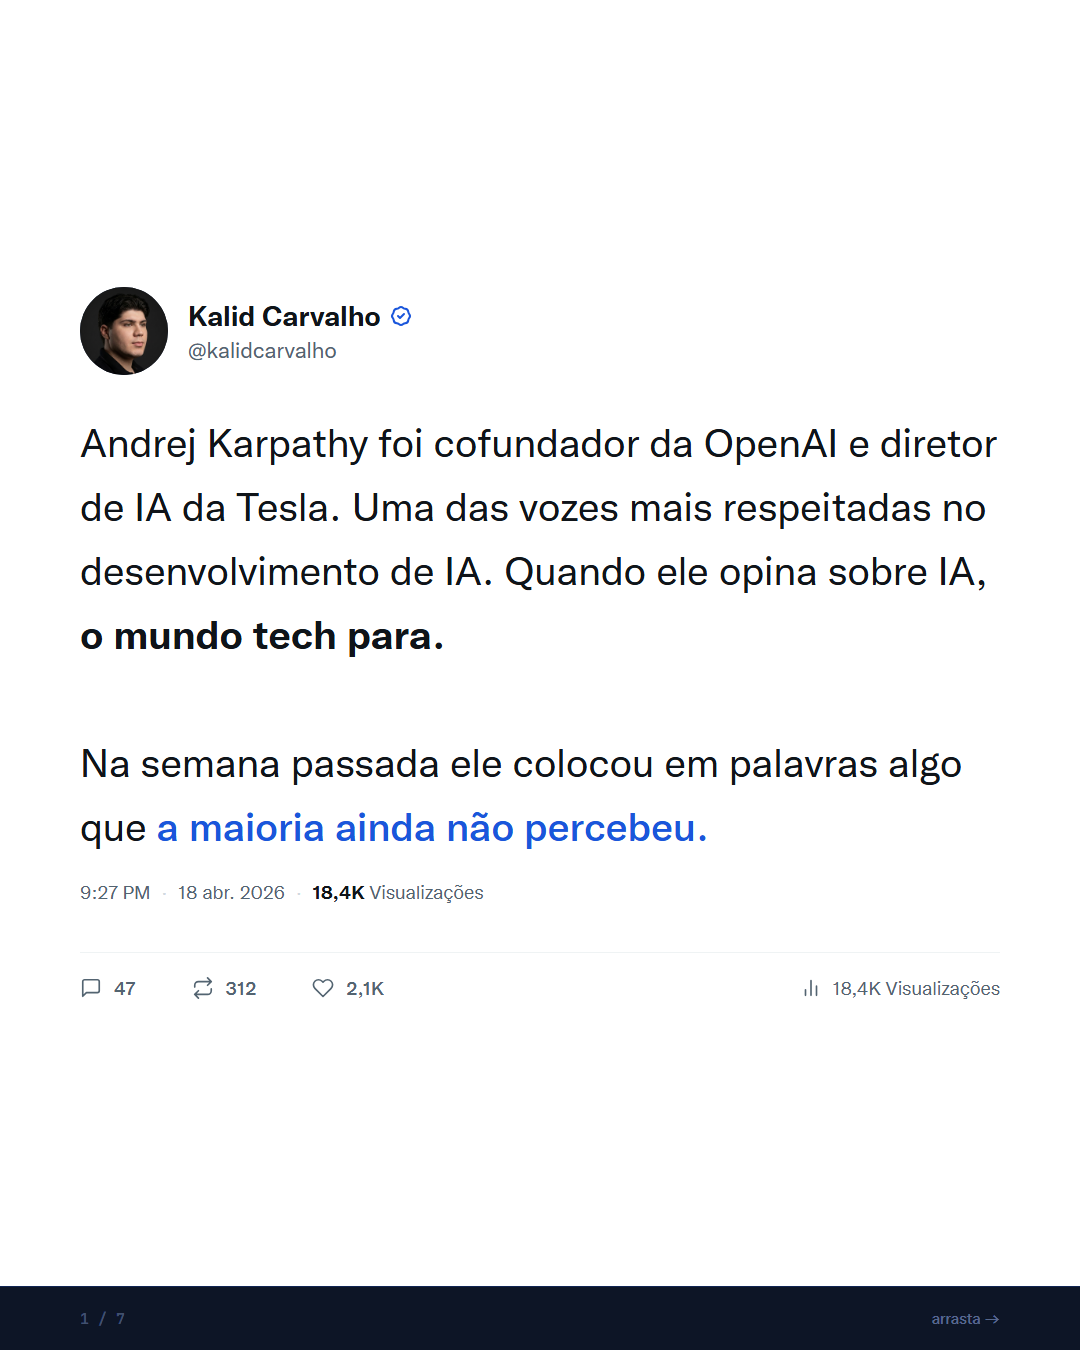
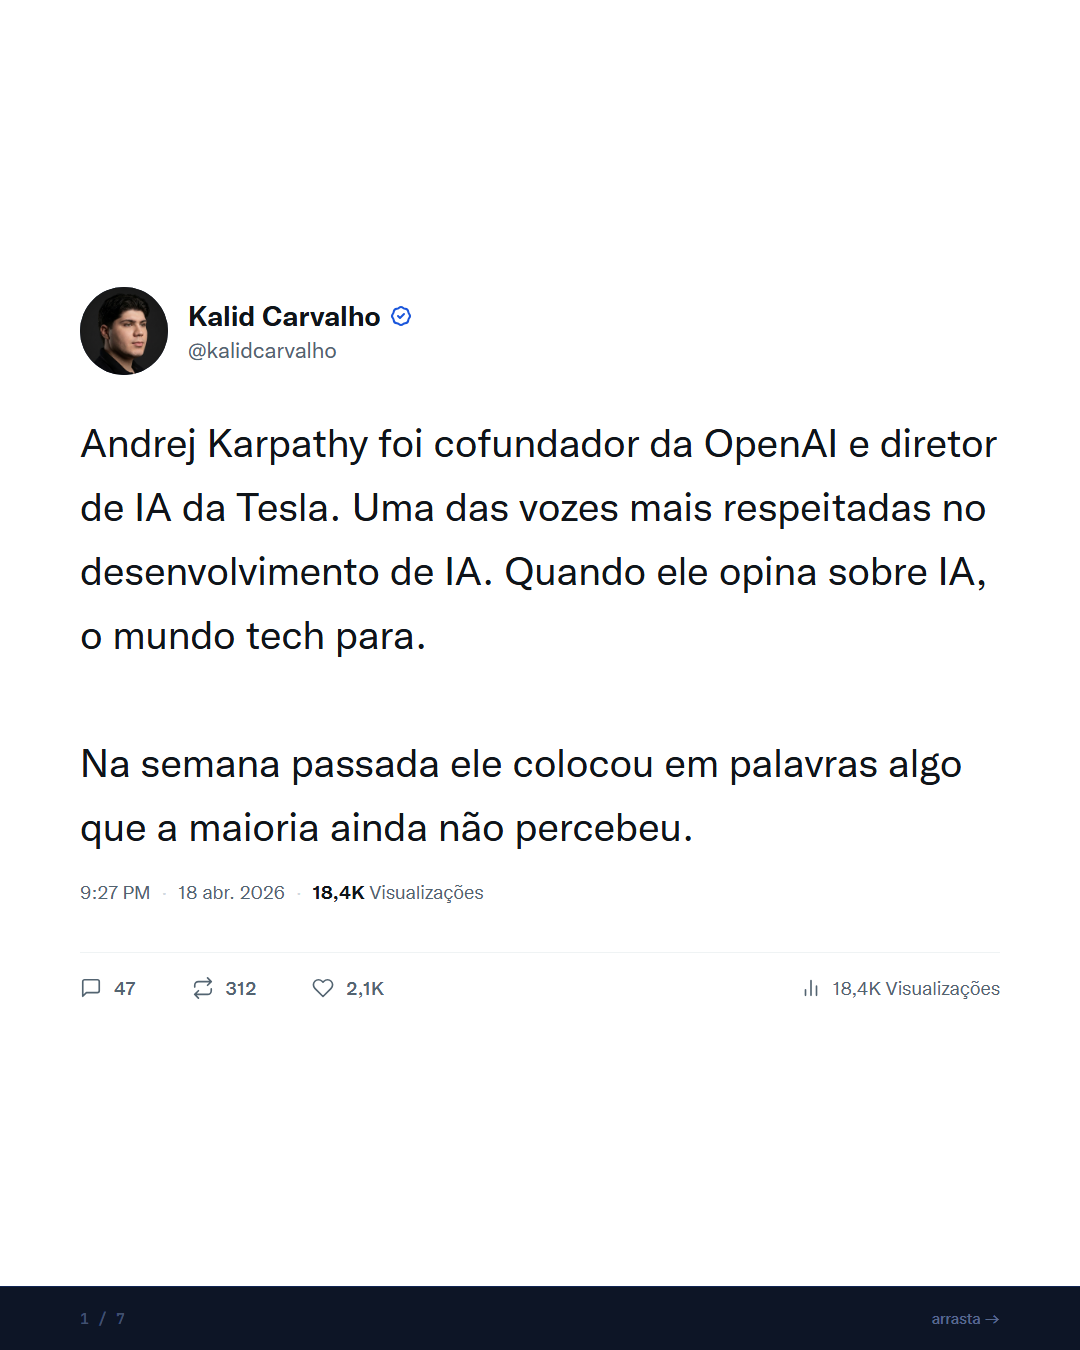
auto-sync: 2026-04-18 09:47

Changed region(s): [[0.1528, 0.5911, 0.6417, 0.6222], [0.0917, 0.4667, 0.3972, 0.4978]]

diff --git a/conteudo/kalidcarvalho/carrosseis/2026-04-18/instagram/slide-01.html b/conteudo/kalidcarvalho/carrosseis/2026-04-18/instagram/slide-01.html
@@ -71,8 +71,8 @@ body {
   font-size: 40px; font-weight: 400;
   color: #0F1419; line-height: 1.60;
 }
-.tweet-text strong { font-weight: 700; }
-.tweet-text em { color: #1A56DB; font-style: normal; font-weight: 600; }
+.tweet-text strong { font-weight: 400; }
+.tweet-text em { color: #0F1419; font-style: normal; font-weight: 400; }
 
 /* Timestamp */
 .tweet-timestamp {
